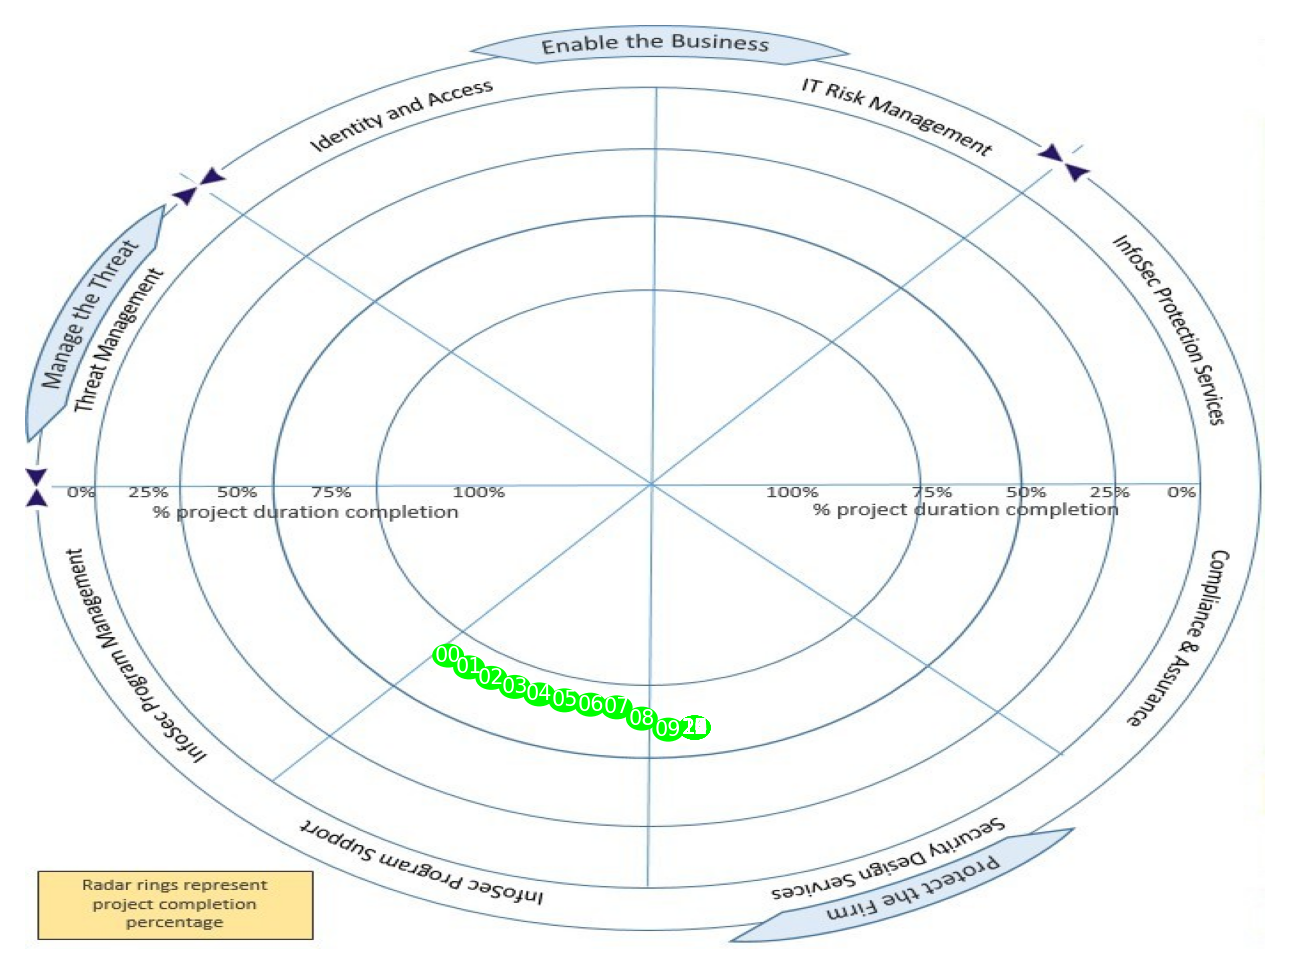
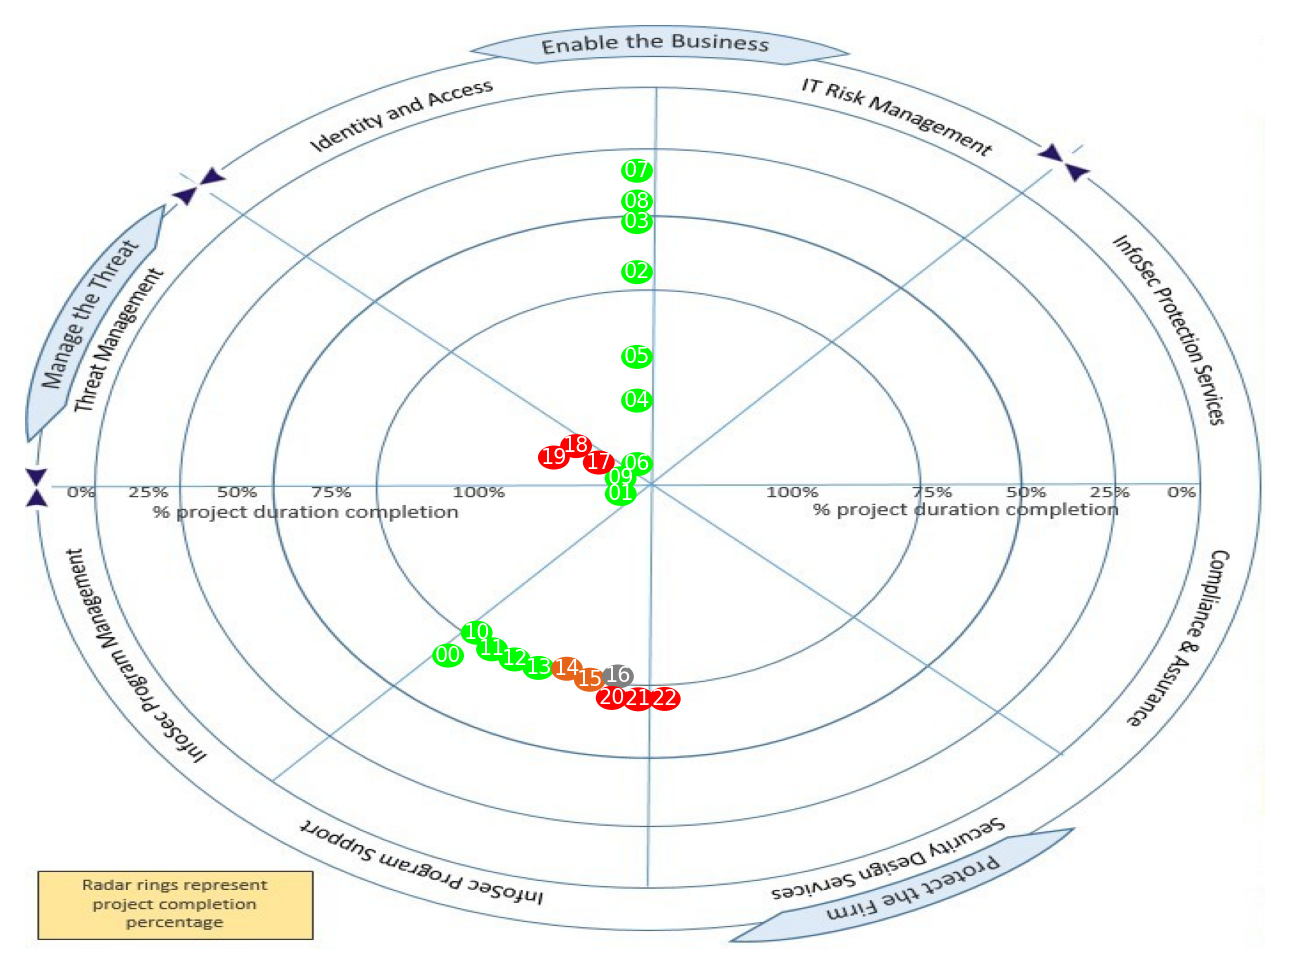
fix radar id indexing

diff --git a/main.py b/main.py
@@ -160,72 +160,57 @@ def main() -> None:
     df = df.drop("index", axis=1)
     names = sort_project_status(df)
     ids = create_radar_ids()
-    # print(list(df.columns))
     generate_excel(create_radar_ids(), names)
     positions = [[], [], [], [], [], [], [], [], []] # list[list[list[float, float, str, str]]] theta, r, id, health
-    # print(len(names))
-    # print(*[len(name) for name in names])
-    row_num = 0
+    
+    id_idx = 0
     for i in range(len(names)):
-        # print(names[i])
         for name in names[i]:
-            # row_num = 0
-            closed_count = 0
-            """
-            for j in range(len(df["Project Name"])):
-                if df["Overall Health"][j] == "Closed":
-                    closed_count += 1
-                if df["Project Name"][j] == name:
-                    row_num = j
-                    break
-            """
-            
-            row_num2 = 0
+            row_num = 0
             for idx, row in df.iterrows():
-                if name in row:
-                    row_num2 = idx
+                if any(name in str(value) for value in row):
+                    row_num = idx
                     break
 
+            percent = df["%Project Duration Completed2"][row_num]
 
-            percent = df["%Project Duration Completed2"][row_num2]
-
-            match df["Service Category"][row_num2]:
+            match df["Service Category"][row_num]:
                 case "InfoSec Protection Services":
                     # 0 - pi/4
                     r, a = calculate_position(percent, positions, 0, [0, math.pi/4], name)
-                    positions[0].append([a, r, ids[row_num - closed_count], df["Overall Health"][row_num2]])
+                    positions[0].append([a, r, ids[id_idx], df["Overall Health"][row_num]])
                 case "IT Risk Management":
                     # pi/4 - pi/2
                     r, a = calculate_position(percent, positions, 1, [math.pi/4, math.pi/2], name)
-                    positions[1].append([a, r, ids[row_num - closed_count], df["Overall Health"][row_num2]])
+                    positions[1].append([a, r, ids[id_idx], df["Overall Health"][row_num]])
                 case "Identity and Access":
                     # pi/2 - 3pi/4
                     r, a = calculate_position(percent, positions, 2, [math.pi/2, 3*math.pi/4], name)
-                    positions[2].append([a, r, ids[row_num - closed_count], df["Overall Health"][row_num2]])
+                    positions[2].append([a, r, ids[id_idx], df["Overall Health"][row_num]])
                 case "Threat Management":
                     # 3pi/4 - pi
                     r, a = calculate_position(percent, positions, 3, [3*math.pi/4, math.pi], name)
-                    positions[3].append([a, r, ids[row_num - closed_count], df["Overall Health"][row_num2]])
+                    positions[3].append([a, r, ids[id_idx], df["Overall Health"][row_num]])
                 case "InfoSec Program Management":
                     # pi - 5pi/4
                     r, a = calculate_position(percent, positions, 4, [math.pi, 5*math.pi/4], name)
-                    positions[4].append([a, r, ids[row_num - closed_count], df["Overall Health"][row_num2]])
+                    positions[4].append([a, r, ids[id_idx], df["Overall Health"][row_num]])
                 case "InfoSec Program Support":
                     # 5pi/4 - 3pi/2
                     r, a = calculate_position(percent, positions, 5, [5*math.pi/4+0.05, 3*math.pi/2], name)
-                    positions[5].append([a, r, ids[row_num - closed_count], df["Overall Health"][row_num2]])
+                    positions[5].append([a, r, ids[id_idx], df["Overall Health"][row_num]])
                 case "Security Design Services":
                     # 3pi/2 - 7pi/4
                     r, a = calculate_position(percent, positions, 6, [3*math.pi/2, 7*math.pi/4], name)
-                    positions[6].append([a, r, ids[row_num - closed_count], df["Overall Health"][row_num2]])
+                    positions[6].append([a, r, ids[id_idx], df["Overall Health"][row_num]])
                 case "Compliance & Assurance":
                     # 7pi/4 - 2pi
                     r, a = calculate_position(percent, positions, 7, [7*math.pi/4, 2*math.pi], name)
-                    positions[7].append([a, r, ids[row_num - closed_count], df["Overall Health"][row_num2]])
+                    positions[7].append([a, r, ids[id_idx], df["Overall Health"][row_num]])
                 case _:
                     print("This should not run")
 
-            row_num += 1
+            id_idx += 1
     
     #print(df["Service Category"][0])
 
